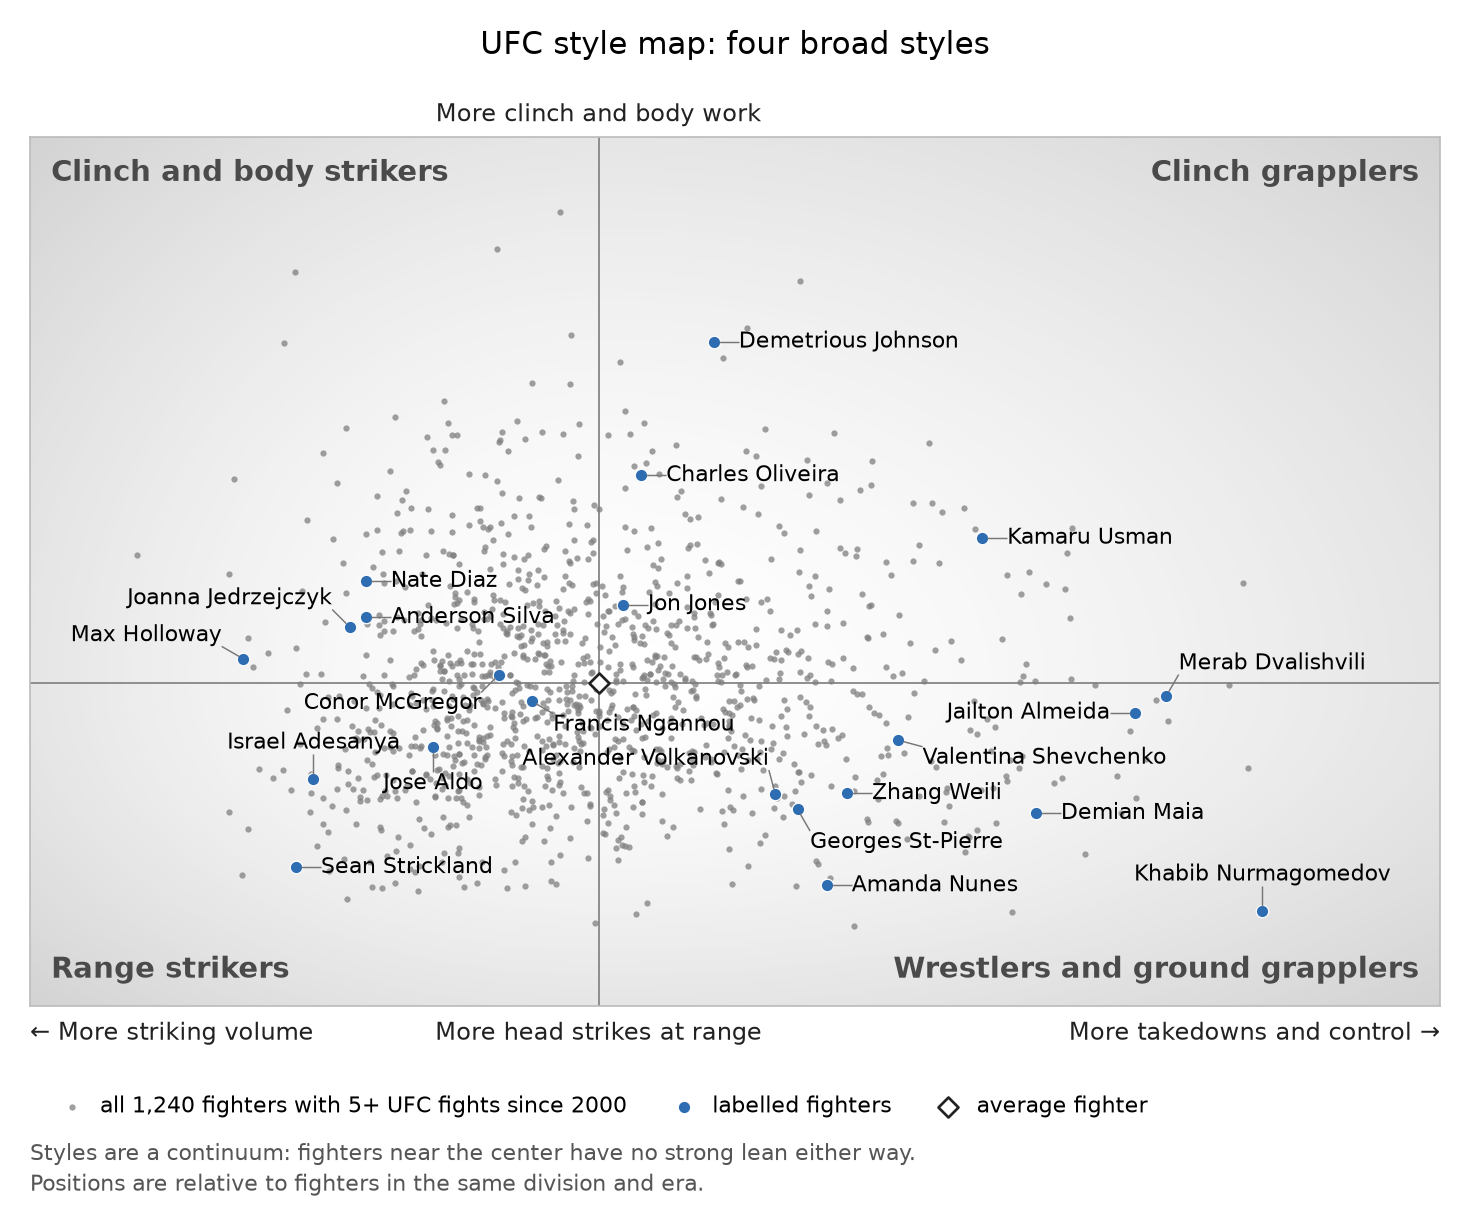
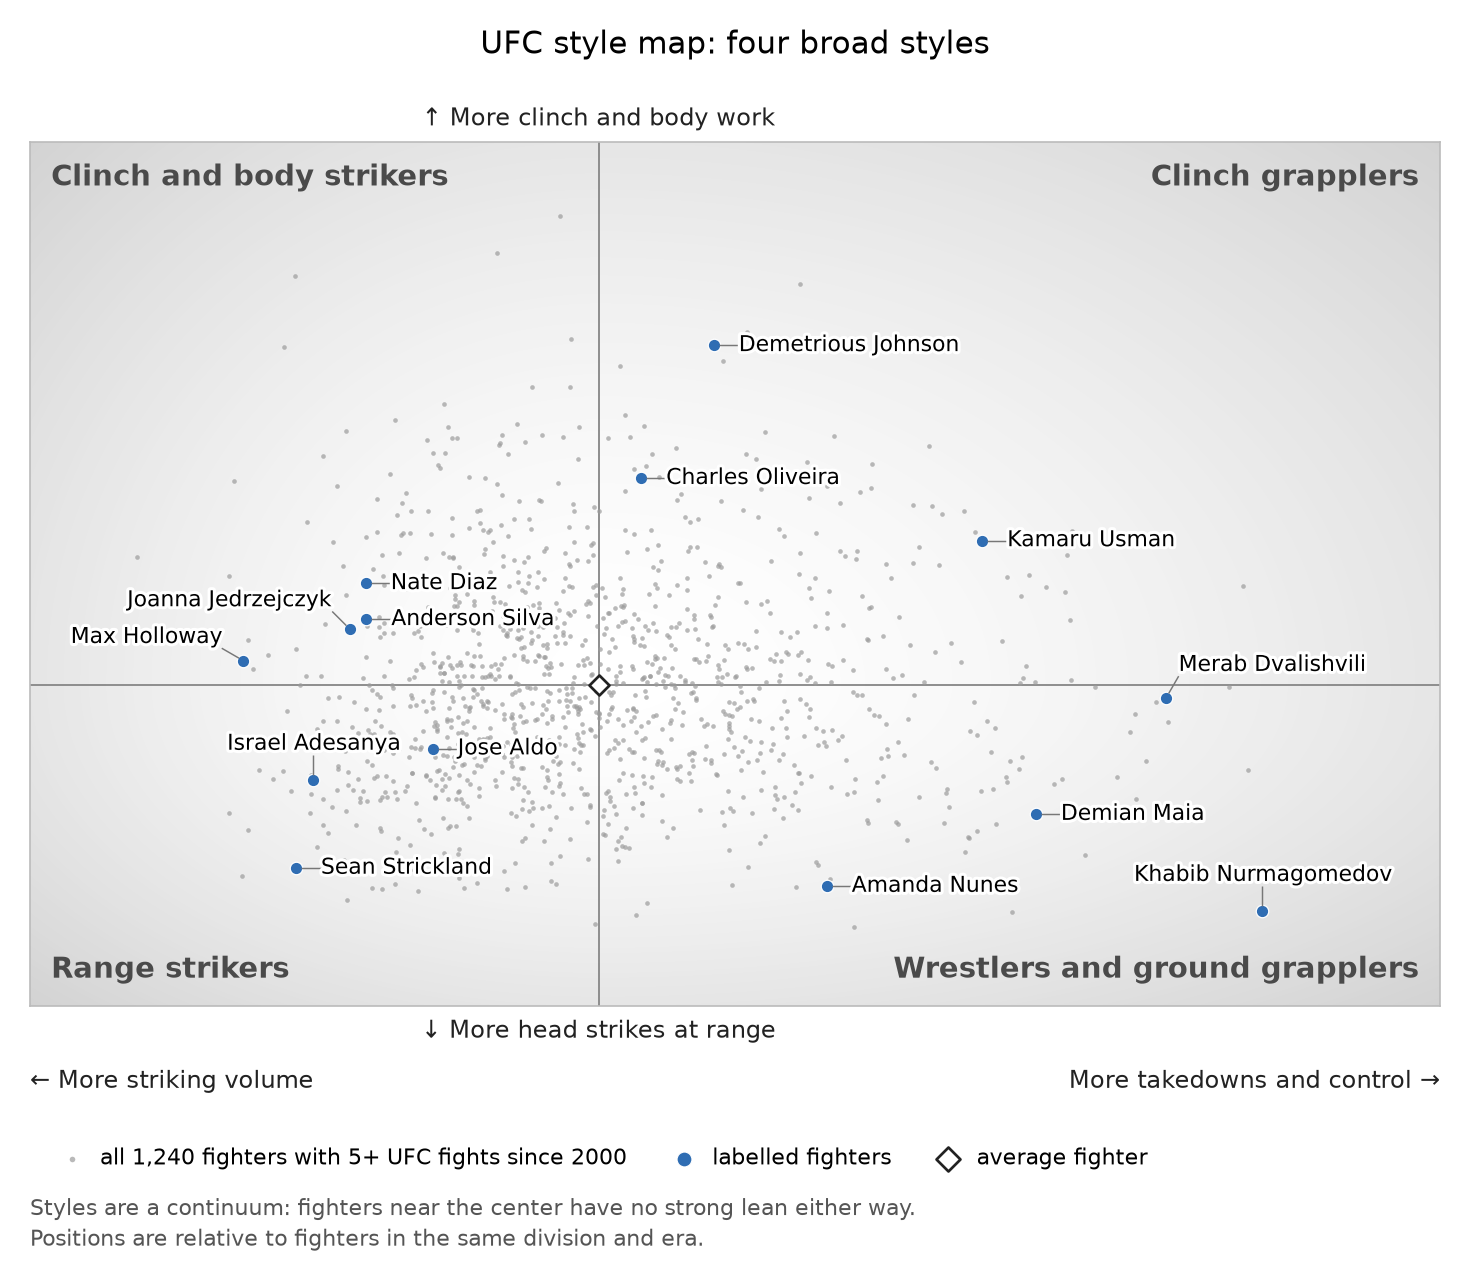
Improve style map readability
- white halo (patheffects.withStroke) around every fighter label
- background dots smaller and lighter, reading as texture while still
  visible in the shaded corners
- labelled fighters cut from 22 to 14: at least three clear examples per
  quadrant plus Khabib, Holloway and Demetrious Johnson; the crowded
  central and inner-cluster labels (Ngannou, McGregor, Jon Jones,
  Volkanovski, GSP, Zhang, Shevchenko, Jailton Almeida) dropped first
- vertical axis labels now arrowed ("↑ More clinch and body work",
  "↓ More head strikes at range"); the bottom one sits on its own line
  above the left/right axis labels, enforced by a new layout check
- README: style map alt text updated to 14 labelled fighters

diff --git a/src/make_figures.py b/src/make_figures.py
@@ -16,6 +16,7 @@ import matplotlib
 
 matplotlib.use("Agg")
 import matplotlib.pyplot as plt  # noqa: E402
+from matplotlib import patheffects  # noqa: E402
 import numpy as np  # noqa: E402
 
 import features as F  # noqa: E402
@@ -34,12 +35,13 @@ plt.rcParams.update({
 })
 
 # Fighters labelled on the style map. Label positions are chosen automatically by place_labels().
-STYLE_MAP_FIGHTERS = [
-    "Khabib Nurmagomedov", "Jailton Almeida", "Merab Dvalishvili", "Demian Maia", "Georges St-Pierre", "Amanda Nunes",
-    "Kamaru Usman", "Valentina Shevchenko", "Zhang Weili", "Alexander Volkanovski", "Charles Oliveira",
-    "Demetrious Johnson", "Jon Jones", "Anderson Silva", "Nate Diaz", "Joanna Jedrzejczyk", "Conor McGregor",
-    "Francis Ngannou", "Jose Aldo", "Israel Adesanya", "Max Holloway", "Sean Strickland",
+STYLE_MAP_FIGHTERS = [   # about 14: at least three clear examples per quadrant, crowded central labels dropped first
+    "Demetrious Johnson", "Kamaru Usman", "Charles Oliveira",                          # clinch grapplers (top right)
+    "Max Holloway", "Nate Diaz", "Anderson Silva", "Joanna Jedrzejczyk",               # clinch and body strikers (top left)
+    "Sean Strickland", "Israel Adesanya", "Jose Aldo",                                 # range strikers (bottom left)
+    "Khabib Nurmagomedov", "Demian Maia", "Amanda Nunes", "Merab Dvalishvili",         # wrestlers and ground grapplers
 ]
+LABEL_HALO = [patheffects.withStroke(linewidth=3, foreground="white")]   # keeps labels readable over dots and shading
 LABEL_FONTSIZE = 10.5
 MARKER_RADIUS_PX = 6          # labelled-point marker radius used for collision checks (display pixels, incl. margin)
 NEAREST_MARGIN = 1.15         # a label's own point must be this much closer than any other labelled point
@@ -143,7 +145,7 @@ def place_labels(ax, points: dict[str, tuple[float, float]], fontsize: float = L
             raise RuntimeError(f"could not place label for {name} without ambiguity or overlap")
         dxp, dyp, ha, va, b = best
         t = ax.annotate(name, points[name], xytext=(dxp, dyp), textcoords="offset points", ha=ha, va=va,
-                        fontsize=fontsize, zorder=5)
+                        fontsize=fontsize, zorder=5, path_effects=LABEL_HALO)
         placed.append(b)
         segments.append(_leader_endpoints((x0, y0), t.get_window_extent(renderer)))
         out[name] = (t, _leader_line(ax, (x0, y0), t.get_window_extent(renderer)))
@@ -227,8 +229,8 @@ def style_map(path: Path) -> None:
     s = axes.transform(profiles).set_index("fighter_name")
     points = {n: (s.at[n, "axis_1"], s.at[n, "axis_2"]) for n in STYLE_MAP_FIGHTERS if n in s.index}
 
-    fig, ax = plt.subplots(figsize=(10, 8.4))
-    fig.subplots_adjust(left=0.03, right=0.97, top=0.89, bottom=0.2)
+    fig, ax = plt.subplots(figsize=(10, 8.8))
+    fig.subplots_adjust(left=0.03, right=0.97, top=0.89, bottom=0.235)
     # Extra room past the data so the quadrant names sit in clear corners.
     xlim = (s["axis_1"].min() - 0.6, s["axis_1"].max() + 1.0)
     ylim = (s["axis_2"].min() - 0.75, s["axis_2"].max() + 0.7)
@@ -237,7 +239,8 @@ def style_map(path: Path) -> None:
     _quadrant_shading(ax, xlim, ylim)
     ax.axhline(0, color="#8a8a8a", lw=0.9, zorder=1)
     ax.axvline(0, color="#8a8a8a", lw=0.9, zorder=1)
-    bg = ax.scatter(s["axis_1"], s["axis_2"], s=9, color="#7f7f7f", alpha=0.75, lw=0, zorder=2)  # visible over shading
+    # Background texture: small, light dots that still show in the shaded corners.
+    bg = ax.scatter(s["axis_1"], s["axis_2"], s=5, color="#9c9c9c", alpha=0.7, lw=0, zorder=2)
     xy = np.array(list(points.values()))
     lab = ax.scatter(xy[:, 0], xy[:, 1], s=36, color=BLUE, edgecolor="white", lw=0.6, zorder=3)
     avg = ax.scatter([0], [0], marker="D", s=46, facecolor="white", edgecolor="#222222", lw=1.3, zorder=4)
@@ -260,17 +263,19 @@ def style_map(path: Path) -> None:
     pos = ax.get_position()
     x_zero = pos.x0 + (0 - xlim[0]) / (xlim[1] - xlim[0]) * (pos.x1 - pos.x0)
     style = dict(fontsize=11.5, color="#222222")
+    # Vertical axis: arrowed labels at both ends of the vertical split, directly above and below the plot.
+    # Horizontal axis: one row lower, at the plot's left and right edges, so the bottom vertical label stands apart.
     ends = {
-        "left": fig.text(pos.x0, pos.y0 - 0.012, "← More striking volume", ha="left", va="top", **style),
-        "right": fig.text(pos.x1, pos.y0 - 0.012, "More takedowns and control →", ha="right", va="top", **style),
-        "bottom": fig.text(x_zero, pos.y0 - 0.012, "More head strikes at range", ha="center", va="top", **style),
-        "top": fig.text(x_zero, pos.y1 + 0.008, "More clinch and body work", ha="center", va="bottom", **style),
+        "top": fig.text(x_zero, pos.y1 + 0.008, "↑ More clinch and body work", ha="center", va="bottom", **style),
+        "bottom": fig.text(x_zero, pos.y0 - 0.010, "↓ More head strikes at range", ha="center", va="top", **style),
+        "left": fig.text(pos.x0, pos.y0 - 0.048, "← More striking volume", ha="left", va="top", **style),
+        "right": fig.text(pos.x1, pos.y0 - 0.048, "More takedowns and control →", ha="right", va="top", **style),
     }
     leg = fig.legend([bg, lab, avg], [f"all {len(s):,} fighters with 5+ UFC fights since 2000", "labelled fighters",
                                       "average fighter"],
-                     loc="upper left", bbox_to_anchor=(pos.x0, pos.y0 - 0.055), ncol=3, frameon=False, fontsize=10.5,
-                     handletextpad=0.3, columnspacing=1.6, markerscale=1.0)
-    note = fig.text(pos.x0, pos.y0 - 0.105, NOTE, ha="left", va="top", fontsize=10.5, color="#555555", linespacing=1.4)
+                     loc="upper left", bbox_to_anchor=(pos.x0, pos.y0 - 0.092), ncol=3, frameon=False, fontsize=10.5,
+                     handletextpad=0.3, columnspacing=1.6, markerscale=1.2)
+    note = fig.text(pos.x0, pos.y0 - 0.142, NOTE, ha="left", va="top", fontsize=10.5, color="#555555", linespacing=1.4)
     fig.suptitle("UFC style map: four broad styles", fontsize=15, y=0.975)
 
     fig.canvas.draw()
@@ -279,8 +284,19 @@ def style_map(path: Path) -> None:
     check_labels(ax, labels, points, obstacles=names, keep_clear=[(0.0, 0.0)])
     _check_no_overlap({**{f"axis end ({k})": t for k, t in ends.items()}, "legend": leg, "note": note,
                        **{f"quadrant name {k!r}": t for k, t in names.items()}}, fig)
+    _check_bottom_label_separate(ends, fig)
     fig.savefig(path, bbox_inches="tight", pad_inches=0.2)
     plt.close(fig)
+
+
+def _check_bottom_label_separate(ends: dict, fig, min_gap_px: float = 4.0) -> None:
+    """The bottom (vertical-axis) label must sit on its own line, clear of the left/right (horizontal-axis) labels."""
+    fig.canvas.draw()
+    r = fig.canvas.get_renderer()
+    bottom = ends["bottom"].get_window_extent(r)
+    for side in ("left", "right"):
+        b = ends[side].get_window_extent(r)
+        assert bottom.y0 - b.y1 >= min_gap_px, f"bottom axis label isn't clearly above the {side} axis label"
 
 
 def _check_no_overlap(artists: dict, fig) -> None:

diff --git a/README.md b/README.md
@@ -24,7 +24,7 @@ rather than weight class or era.
 | 3 | **submission hunting** | more submission attempts |
 | 4 | **leg kicking** | more strikes aimed at the legs |
 
-![Style map as a quadrant chart: horizontal axis from more striking volume (left) to more takedowns and control (right), vertical axis from more head strikes at range (bottom) to more clinch and body work (top). The four shaded quadrants are labelled range strikers, clinch and body strikers, clinch grapplers, and wrestlers and ground grapplers, with 22 well-known fighters labelled.](docs/figures/style_map.png)
+![Style map as a quadrant chart: horizontal axis from more striking volume (left) to more takedowns and control (right), vertical axis from more head strikes at range (bottom) to more clinch and body work (top). The four shaded quadrants are labelled range strikers, clinch and body strikers, clinch grapplers, and wrestlers and ground grapplers, with 14 well-known fighters labelled.](docs/figures/style_map.png)
 
 **Reading the style map.** The map plots the first two axes. Left to right is axis 1, from more striking volume to more takedowns and
 control; bottom to top is axis 2, from head strikes at range to clinch and body work. The chart splits at the average fighter (the
